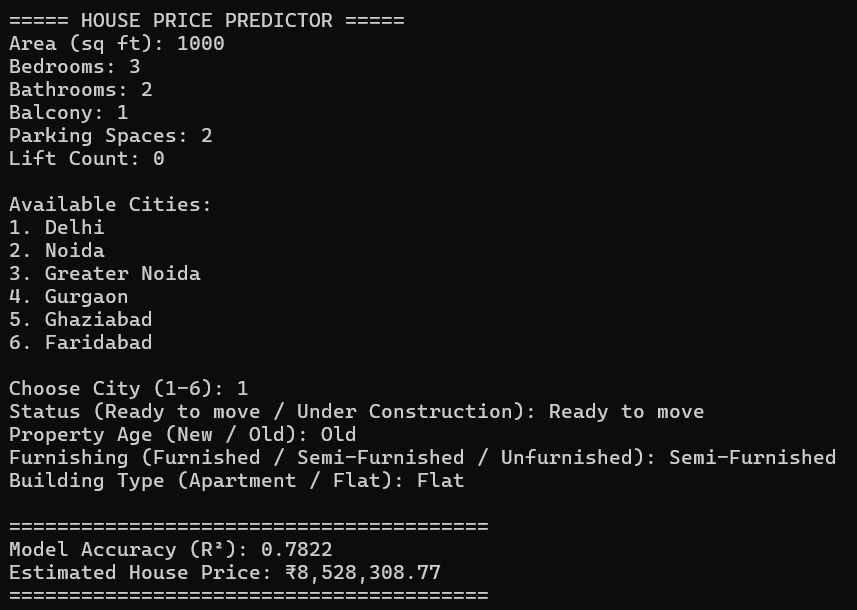
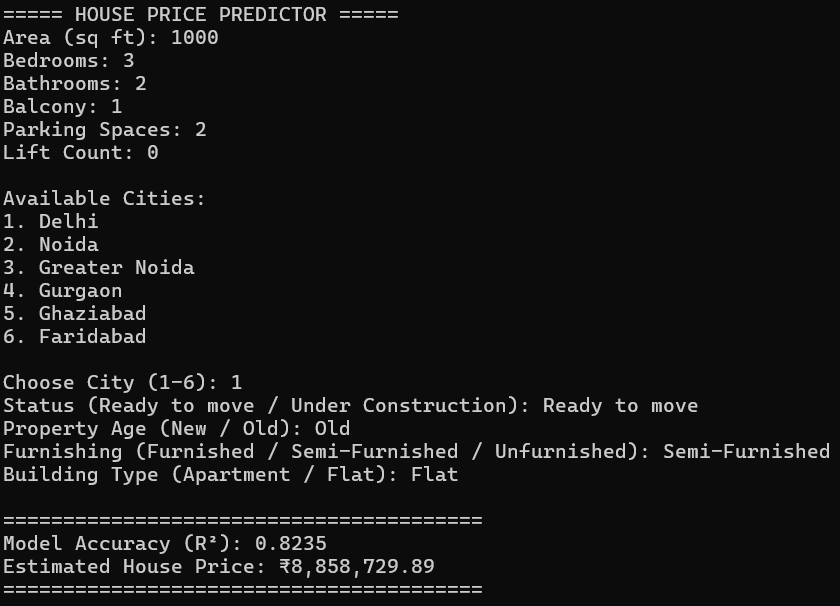
improved r score to .82

diff --git a/src/app.py b/src/app.py
@@ -42,7 +42,9 @@ df.drop(
         "desc",
         "Landmarks",
         "Price_sqft",
-        "Address"
+        "Address",
+        "latitude",
+        "longitude"
     ],
     inplace=True
 )
@@ -53,7 +55,7 @@ y = df["price"]
 
 # Identify categorical and numerical columns
 num_cols = X.select_dtypes(include=["int64", "float64"]).columns
-cat_cols = X.select_dtypes(include=["object"]).columns
+cat_cols = X.select_dtypes(include=["object", "string", "category"]).columns
 
 # Numerical preprocessing
 numeric_transformer = Pipeline(
@@ -95,14 +97,6 @@ cv_scores = cross_val_score(
     cv=5,
     scoring="r2"
 )
-
-print("\n===== CROSS VALIDATION =====")
-print("R² Scores:", cv_scores)
-print("Average R²:", cv_scores.mean())
-
-print(df.columns.tolist())
-print(df["type_of_building"].value_counts())
-print(df["City"].value_counts())
 
 # Train/Test Split
 X_train, X_test, y_train, y_test = train_test_split(
@@ -188,6 +182,7 @@ while True:
             "parking": [parking],
             "Lift": [lift],
             "City": [city],
+            "Total_Rooms": [bedrooms + bathrooms],
             "Status": [status],
             "neworold": [age],
             "Furnished_status": [furnished],